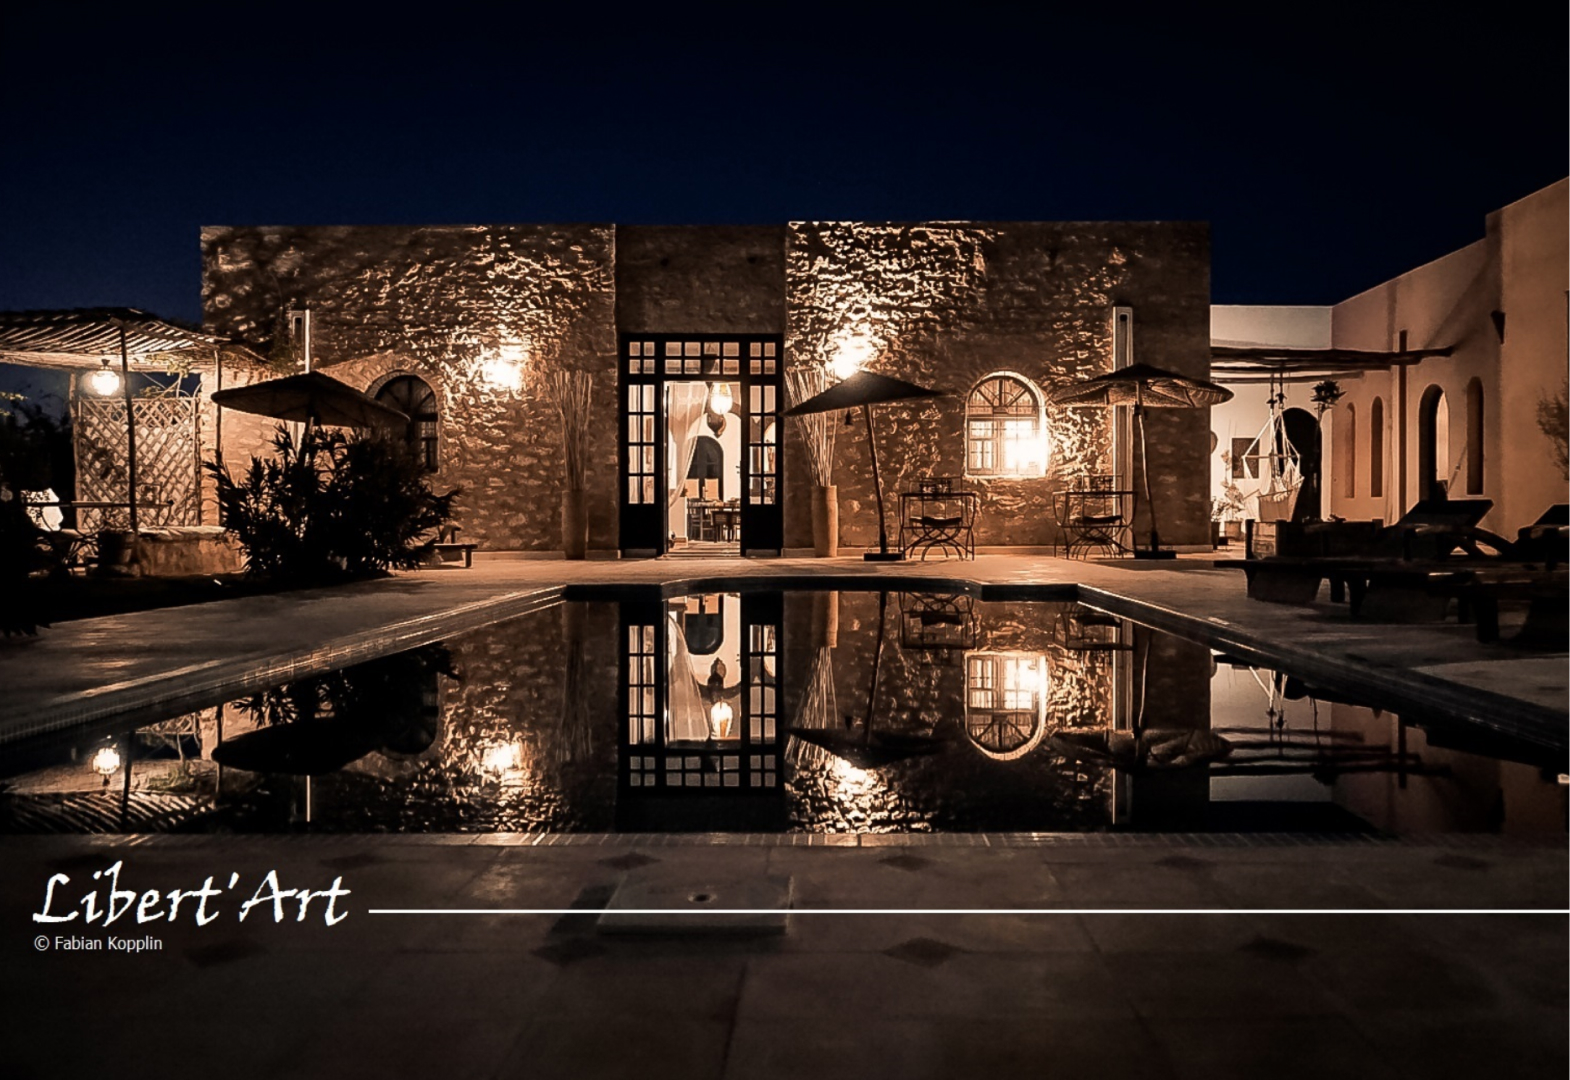
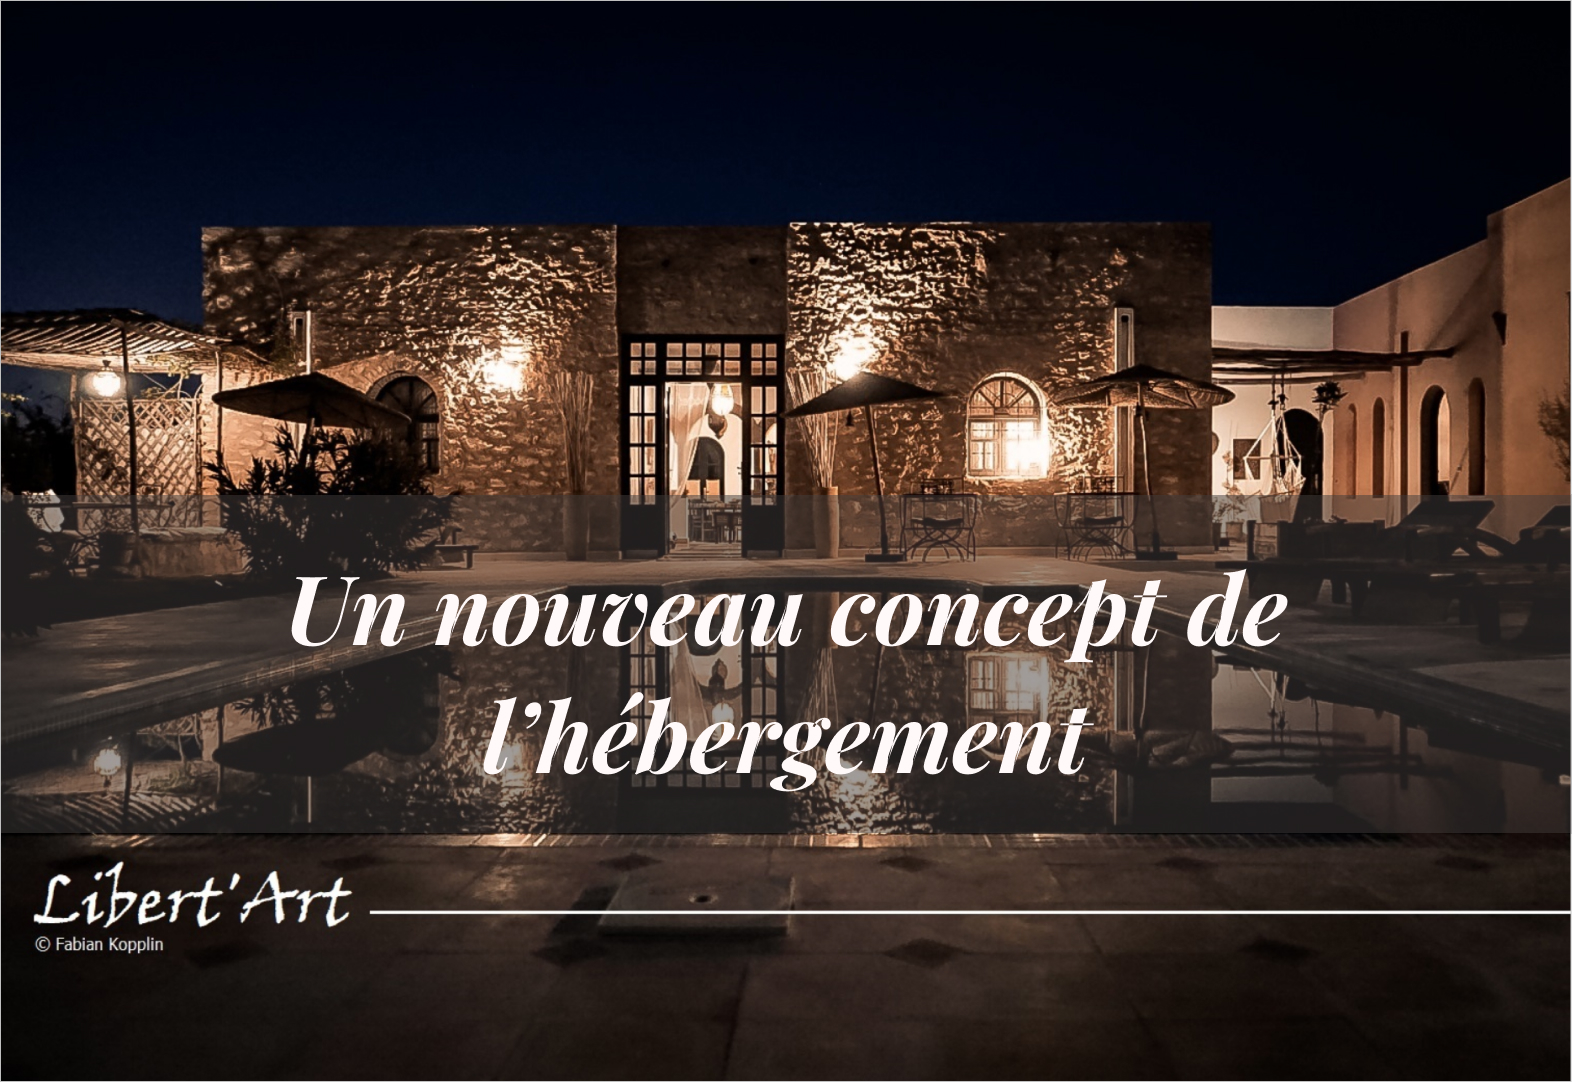
optimizes performance

diff --git a/src/components/Reviews.js b/src/components/Reviews.js
@@ -6,55 +6,85 @@ function Reviews() {
     <div id="reviews" className='review-height'>
         <div className="container d-flex flex-column justify-content-around align-items-center">
           <h1 className="h1 reviews-heading my-5">Reviews</h1>
-          <div class="row row-cols-1 row-cols-md-2 row-cols-lg-3 g-4 mt-2">
-            <div class="col">
-              <div class="card">
-                <img src="../../images/libertart-review1.jpg" class="card-img-top rounded" alt="..."/>
+          <div className="row row-cols-1 row-cols-md-2 row-cols-lg-3 g-4 mt-2">
+            <div className="col">
+              <div className="card">
+                <picture>
+                  <source srcSet="../../images/libertart-review1.webp" />
+                  <img src="../../images/libertart-review1.jpg" className="img-fluid" alt="" loading="lazy"/>
+                </picture>
               </div>
             </div>
-            <div class="col">
-              <div class="card">
-                <img src="../../images/libertart-review2.jpg" class="card-img-top rounded" alt="..."/>
+            <div className="col">
+              <div className="card">
+                <picture>
+                  <source srcSet="../../images/libertart-review2.webp" />
+                  <img src="../../images/libertart-review2.jpg" className="img-fluid" alt="" loading="lazy"/>
+                </picture>
               </div>
             </div>
-            <div class="col">
-              <div class="card">
-                <img src="../../images/libertart-review3.jpg" class="card-img-top rounded" alt="..."/>
+            <div className="col">
+              <div className="card">
+                <picture>
+                  <source srcSet="../../images/libertart-review3.webp" />
+                  <img src="../../images/libertart-review3.jpg" className="img-fluid" alt="" loading="lazy"/>
+                </picture>
               </div>
             </div>
-            <div class="col">
-              <div class="card">
-                <img src="../../images/libertart-review4-250h.jpg" class="card-img-top rounded" alt="..."/>
+            <div className="col">
+              <div className="card">
+                <picture>
+                  <source srcSet="../../images/libertart-review4-250h.webp" />
+                  <img src="../../images/libertart-review4-250h.jpg" className="img-fluid" alt="" loading="lazy"/>
+                </picture>
               </div>
             </div>
-            <div class="col">
-              <div class="card">
-                <img src="../../images/libertart-review5.jpg" class="card-img-top rounded" alt="..."/>
+            <div className="col">
+              <div className="card">
+                <picture>
+                  <source srcSet="../../images/libertart-review5.webp" />
+                  <img src="../../images/libertart-review5.jpg" className="img-fluid" alt="" loading="lazy"/>
+                </picture>  
               </div>
             </div>
-            <div class="col">
-              <div class="card">
-                <img src="../../images/libertart-review6.jpg" class="card-img-top rounded" alt="..."/>
+            <div className="col">
+              <div className="card">
+                <picture>
+                  <source srcSet="../../images/libertart-review6.webp" />
+                  <img src="../../images/libertart-review6.jpg" className="img-fluid" alt="" loading="lazy"/>
+                </picture> 
               </div>
             </div>
-            <div class="col">
-              <div class="card">
-                <img src="../../images/libertart-review7.jpg" class="card-img-top rounded" alt="..."/>
+            <div className="col">
+              <div className="card">
+                <picture>
+                  <source srcSet="../../images/libertart-review7.webp" />
+                  <img src="../../images/libertart-review7.jpg" className="img-fluid" alt="" loading="lazy"/>
+                </picture> 
               </div>
             </div>
-            <div class="col">
-              <div class="card">
-                <img src="../../images/libertart-review8.jpg" class="card-img-top rounded" alt="..."/>
+            <div className="col">
+              <div className="card">
+                <picture>
+                  <source srcSet="../../images/libertart-review8.webp" />
+                  <img src="../../images/libertart-review8.jpg" className="img-fluid" alt="" loading="lazy"/>
+                </picture> 
               </div>
             </div>
-            <div class="col">
-              <div class="card">
-                <img src="../../images/libertart-review9.jpg" class="card-img-top rounded" alt="..."/>
+            <div className="col">
+              <div className="card">
+                <picture>
+                  <source srcSet="../../images/libertart-review9.webp" />
+                  <img src="../../images/libertart-review9.jpg" className="img-fluid" alt="" loading="lazy"/>
+                </picture>
               </div>
             </div>
-            <div class="col">
-              <div class="card">
-                <img src="../../images/libertart-review10.jpg" class="card-img-top rounded" alt="..."/>
+            <div className="col">
+              <div className="card">
+                <picture>
+                  <source srcSet="../../images/libertart-review10.webp" />
+                  <img src="../../images/libertart-review10.jpg" className="img-fluid" alt="" loading="lazy"/>
+                </picture>
               </div>
             </div>
           </div>

diff --git a/src/components/Gallery.js b/src/components/Gallery.js
@@ -12,52 +12,82 @@ function Gallery() {
         <div className="row" data-masonry='{"percentPosition": true }'>
           <div className="col-sm-6 col-lg-4 mb-1">
             <div className="card">
-              <img src="../images/libertart-front.jpg" class="card-img-top rounded" alt="..."/>
+              <picture>
+                  <source srcSet="../images/libertart-front.webp" />
+                  <img src="../images/libertart-front.jpg" className="img-fluid" alt="libertart-front" loading="lazy"/>
+              </picture>
             </div>
           </div>
           <div className="col-sm-6 col-lg-4 mb-1">
             <div className="card">
-              <img src="../images/libertart-beach.jpg" class="card-img-top rounded" alt="..."/>
+              <picture>
+                <source srcSet="../images/libertart-beach.webp" />
+                <img src="../images/libertart-beach.jpg" className="img-fluid" alt="libertart-beach" loading="lazy"/>
+              </picture>
             </div>
           </div>
           <div className="col-sm-6 col-lg-4 mb-1">
             <div className="card">
-              <img src="../images/libertart-donuts.jpg" class="card-img-top rounded" alt="..."/>
+              <picture>
+                <source srcSet="../images/libertart-donuts.webp" />
+                <img src="../images/libertart-donuts.jpg" className="img-fluid" alt="libertart-donuts" loading="lazy"/>
+              </picture>
             </div>
           </div>
           <div className="col-sm-6 col-lg-4 mb-1">
             <div className="card">
-              <img src="../images/libertart-garden.jpg" class="card-img-top rounded" alt="..."/>
+              <picture>
+                <source srcSet="../images/libertart-garden.webp" />
+                <img src="../images/libertart-garden.jpg" className="img-fluid" alt="libertart-garden" loading="lazy"/>
+              </picture>
             </div>
           </div>
           <div className="col-sm-6 col-lg-4 mb-1">
             <div className="card">
-              <img src="../images/libertart-sign.jpg" class="card-img-top rounded" alt="..."/>
+              <picture>
+                <source srcSet="../images/libertart-sign.webp" />
+                <img src="../images/libertart-sign.jpg" className="img-fluid" alt="libertart-sign" loading="lazy"/>
+              </picture>
             </div>
           </div>
           <div className="col-sm-6 col-lg-4 mb-1">
             <div className="card">
-              <img src="../images/libertart-pool.jpg" class="card-img-top rounded" alt="..."/>
+              <picture>
+                <source srcSet="../images/libertart-pool.webp" />
+                <img src="../images/libertart-pool.jpg" className="img-fluid" alt="libertart-sign" loading="lazy"/>
+              </picture>
             </div>
           </div>
           <div className="col-sm-6 col-lg-4 mb-1">
             <div className="card">
-              <img src="../images/libertart-lawnchairs.jpg" class="card-img-top rounded" alt="..."/>
+              <picture>
+                <source srcSet="../images/libertart-lawnchairs.webp" />
+                <img src="../images/libertart-lawnchairs.jpg" className="img-fluid" alt="libertart-sign" loading="lazy"/>
+              </picture>
             </div>
           </div>
           <div className="col-sm-6 col-lg-4 mb-1">
             <div className="card">
-              <img src="../images/libertart-flowergarden.jpg" class="card-img-top rounded" alt="..."/>
+              <picture>
+                <source srcSet="../images/libertart-flowergarden.webp" />
+                <img src="../images/libertart-flowergarden.jpg" className="img-fluid" alt="libertart-sign" loading="lazy"/>
+              </picture>
             </div>
           </div>
           <div className="col-sm-6 col-lg-4 mb-1">
             <div className="card">
-              <img src="../images/libertart-fort.jpg" class="card-img-top rounded" alt="..."/>
+              <picture>
+                <source srcSet="../images/libertart-fort.webp" />
+                <img src="../images/libertart-fort.jpg" className="img-fluid" alt="libertart-sign" loading="lazy"/>
+              </picture>
             </div>
           </div>
           <div className="col-sm-6 col-lg-4 mb-1">
             <div className="card">
-              <img src="../images/libertart-breakfast.jpg" class="card-img-top rounded" alt="..."/>
+              <picture>
+                <source srcSet="../images/libertart-breakfast.webp" />
+                <img src="../images/libertart-breakfast.jpg" className="img-fluid" alt="libertart-sign" loading="lazy"/>
+              </picture>
             </div>
           </div>
         </div>

diff --git a/public/index.html b/public/index.html
@@ -8,6 +8,11 @@
       name="Libert'Art Essaouira"
       content="Libert'Art Essaouira. Lodgings in Essaouira, Morocco."
     />
+    <link rel="apple-touch-icon" href="%PUBLIC_URL%/logo192.png" />
+    <!--
+      manifest.json provides metadata used when your web app is installed on a
+      user's mobile device or desktop. See https://developers.google.com/web/fundamentals/web-app-manifest/
+    -->
     <link rel="manifest" href="%PUBLIC_URL%/manifest.json" />
     <!--
       Notice the use of %PUBLIC_URL% in the tags above.
@@ -19,6 +24,9 @@
       Learn how to configure a non-root public URL by running `npm run build`.
     -->
     <link href="https://cdn.jsdelivr.net/npm/bootstrap@5.1.3/dist/css/bootstrap.min.css" rel="stylesheet" integrity="sha384-1BmE4kWBq78iYhFldvKuhfTAU6auU8tT94WrHftjDbrCEXSU1oBoqyl2QvZ6jIW3" crossorigin="anonymous">
+    <link rel="preconnect" href="https://fonts.googleapis.com">
+    <link rel="preconnect" href="https://fonts.gstatic.com" crossorigin>
+    <link href="https://fonts.googleapis.com/css2?family=Montserrat:wght@400;700&family=Playfair+Display:ital,wght@0,400;0,700;0,900;1,400;1,700;1,900&display=swap" rel="stylesheet">
     <title>Libert'Art Essaouira</title>
   </head>
   <body>
@@ -34,7 +42,9 @@
       To begin the development, run `npm start` or `yarn start`.
       To create a production bundle, use `npm run build` or `yarn build`.
     -->
-    <script src="https://cdn.jsdelivr.net/npm/masonry-layout@4.2.2/dist/masonry.pkgd.min.js" integrity="sha384-GNFwBvfVxBkLMJpYMOABq3c+d3KnQxudP/mGPkzpZSTYykLBNsZEnG2D9G/X/+7D" crossorigin="anonymous" async></script>
-    <script src="https://cdn.jsdelivr.net/npm/bootstrap@5.1.3/dist/js/bootstrap.bundle.min.js" integrity="sha384-ka7Sk0Gln4gmtz2MlQnikT1wXgYsOg+OMhuP+IlRH9sENBO0LRn5q+8nbTov4+1p" crossorigin="anonymous"></script>
+    <script async src="https://cdn.jsdelivr.net/npm/masonry-layout@4.2.2/dist/masonry.pkgd.min.js" integrity="sha384-GNFwBvfVxBkLMJpYMOABq3c+d3KnQxudP/mGPkzpZSTYykLBNsZEnG2D9G/X/+7D" crossorigin="anonymous" async></script>
+    <script src="https://code.jquery.com/jquery-3.2.1.slim.min.js" integrity="sha384-KJ3o2DKtIkvYIK3UENzmM7KCkRr/rE9/Qpg6aAZGJwFDMVNA/GpGFF93hXpG5KkN" crossorigin="anonymous"></script>
+    <script src="https://cdn.jsdelivr.net/npm/popper.js@1.12.9/dist/umd/popper.min.js" integrity="sha384-ApNbgh9B+Y1QKtv3Rn7W3mgPxhU9K/ScQsAP7hUibX39j7fakFPskvXusvfa0b4Q" crossorigin="anonymous"></script>
+    <script src="https://cdn.jsdelivr.net/npm/bootstrap@4.0.0/dist/js/bootstrap.min.js" integrity="sha384-JZR6Spejh4U02d8jOt6vLEHfe/JQGiRRSQQxSfFWpi1MquVdAyjUar5+76PVCmYl" crossorigin="anonymous"></script> 
   </body>
 </html>

diff --git a/src/components/Navbar.js b/src/components/Navbar.js
@@ -1,21 +1,21 @@
-import React from 'react'
+import React from 'react';
 
 function Navbar() {
   return (
-    <nav class="navbar navbar-expand-lg navbar-light bg-light fixed-top">
-        <div class="container-fluid">
-          <a class="navbar-brand" href="#">Libert'Art</a>
-          <button class="navbar-toggler" type="button" data-bs-toggle="collapse" data-bs-target="#navbarNavAltMarkup" aria-controls="navbarNavAltMarkup" aria-expanded="false" aria-label="Toggle navigation">
-            <span class="navbar-toggler-icon"></span>
+    <nav className="navbar navbar-expand-lg navbar-light bg-light fixed-top">
+        <div className="container-fluid">
+          <a className="navbar-brand" href="#">Libert'Art</a>
+          <button className="navbar-toggler" type="button" data-bs-toggle="collapse" data-bs-target="#navbarNavAltMarkup" aria-controls="navbarNavAltMarkup" aria-expanded="false" aria-label="Toggle navigation">
+            <span className="navbar-toggler-icon"></span>
           </button>
-          <div class="collapse navbar-collapse" id="navbarNavAltMarkup">
-            <div class="navbar-nav">
-              <a class="nav-link active" aria-current="page" href="#">Home</a>
-              <a class="nav-link" href="#about">About us</a>
-              <a class="nav-link" href="#ammenities">Ammenities</a>
-              <a class="nav-link" href="#reviews">Reviews</a>
-              <a class="nav-link" href="#gallery">Gallery</a>
-              <a class="nav-link" href="http://www.booking.com/Share-Dxed51">Book Now</a>
+          <div className="collapse navbar-collapse justify-content-end me-3" id="navbarNavAltMarkup">
+            <div className="navbar-nav align-items-center">
+              <a className="nav-link active" aria-current="page" href="#">Home</a>
+              <a className="nav-link" href="#about">About us</a>
+              <a className="nav-link" href="#ammenities">Ammenities</a>
+              <a className="nav-link" href="#reviews">Reviews</a>
+              <a className="nav-link" href="#gallery">Gallery</a>
+              <a className="nav-link btn btn-success btn-sm text-white" href="http://www.booking.com/Share-Dxed51">Book Now</a>
             </div>
           </div>
         </div>

diff --git a/src/components/About.js b/src/components/About.js
@@ -8,9 +8,11 @@ function About() {
     <section id='about'>
       <div className='about-container container h-100 d-flex flex-column justify-content-around align-items-center'>
           <h1 className='about-heading mt-5 py-5 h1 text-center'>About</h1>
-          <img className="about-img w-50 rounded-circle" src="../images/libertart-hosts.jpg" alt="Yves and Carolina, owners and hosts at Libert'Art Essaouira" />
-          
-            <p className="my-5 w-50 secondary-font text-center about-text">Lorem ipsum, dolor sit amet consectetur adipisicing elit. Quo cumque ea reprehenderit esse obcaecati pariatur unde vero odit eaque animi? Lorem ipsum, dolor sit amet consectetur adipisicing elit.</p>
+          <picture>
+            <source srcSet="../images/libertart-hosts.webp" />
+            <img src="../images/libertart-hosts.jpg" className="about-img" alt="" loading="lazy"/>
+          </picture>          
+          <p className="my-5 w-50 secondary-font text-center about-text">Lorem ipsum, dolor sit amet consectetur adipisicing elit. Quo cumque ea reprehenderit esse obcaecati pariatur unde vero odit eaque animi? Lorem ipsum, dolor sit amet consectetur adipisicing elit.</p>
         </div>
         <div className='container h-100 d-flex flex-column justify-content-center align-items-center'>
           <Ammenities />  

diff --git a/src/App.js b/src/App.js
@@ -1,17 +1,21 @@
+import React, { lazy } from 'react';
 import './App.css';
 import Navbar from './components/Navbar';
 import Home from './components/Home';
+import Footer from './components/Footer';
 import About from './components/About';
 import Gallery from './components/Gallery';
-import Footer from './components/Footer';
+// const About = lazy(() => import ('./components/About'));
+// const Gallery = lazy(() => import ('./components/Gallery'));
+
 
 function App() {
   return (
     <div className="App">
       <Navbar />
-      <Home/>
-      <About />
-      <Gallery />
+      <Home defer/>
+      <About defer/>
+      <Gallery defer/>
       <Footer/>
     </div>
   );

diff --git a/src/components/Footer.js b/src/components/Footer.js
@@ -111,8 +111,8 @@ function Footer() {
          className="text-center p-1 text-muted"
          >
       <a className='mx-1 text-muted' href="https://micochango.com/" target='_blank'
-         >powered by <span className="fst-italic fw-bold">micochango</span>  | <a href="https://www.micochango.com/">www.micochango.com</a> 
-         </a>
+         >powered by <span className="fst-italic fw-bold">micochango | www.micochango.com </span>
+      </a>
       © 2022 
     </div>
     {/* <!-- Grid container --> */}

diff --git a/src/components/Home.css b/src/components/Home.css
@@ -1,10 +1,11 @@
 .landing {
-	background: url('../../public/images/libertart-landing-background.jpg')
-		no-repeat center center fixed;
+	background: url('../../public/images/libertart-pool.webp');
 	-webkit-background-size: cover;
 	-moz-background-size: cover;
 	-o-background-size: cover;
+	background-repeat: no-repeat;
 	background-size: cover;
+	background-position: top;
 }
 
 .overlay {

diff --git a/src/components/Ammenities.js b/src/components/Ammenities.js
@@ -5,7 +5,7 @@ import './Ammenities.css';
 
 function Ammenities() {
   return (
-    <div id='ammenities'>
+    <div id='ammenities' className='my-5'>
       <div className='container h-100 d-flex flex-column justify-content-center align-items-center'>
         <h1 className='h1 text-center my-5 ammenities-heading'>Ammenities</h1>
         <ul className="secondary-font ammenities-content">

diff --git a/src/components/Home.js b/src/components/Home.js
@@ -6,9 +6,6 @@ function Home() {
     <>
     <div className='overlay'></div>
     <section id='home' className='vh-100 landing'>
-        <div className='container vh-100 d-flex flex-column justify-content-center align-items-center'>
-            <span className='mt-5 tagline'>Un nouveau concept de l’hébergement</span>
-        </div>
     </section>
     </>
   )

diff --git a/src/index.css b/src/index.css
@@ -1,5 +1,3 @@
-@import url('https://fonts.googleapis.com/css2?family=Montserrat:wght@400;700&family=Playfair+Display:ital,wght@0,400;0,700;0,900;1,400;1,700;1,900&display=swap');
-
 body {
 	margin: 0;
 	font-family: -apple-system, BlinkMacSystemFont, 'Playfair Display',

diff --git a/src/components/About.css b/src/components/About.css
@@ -3,8 +3,7 @@
 }
 
 .about-img {
-	-webkit-filter: grayscale(100%) !important; /* Safari 6.0 - 9.0 */
-	filter: grayscale(100%) !important;
+	max-width: 200px;
 }
 
 @media screen and (min-width: 768px) {
